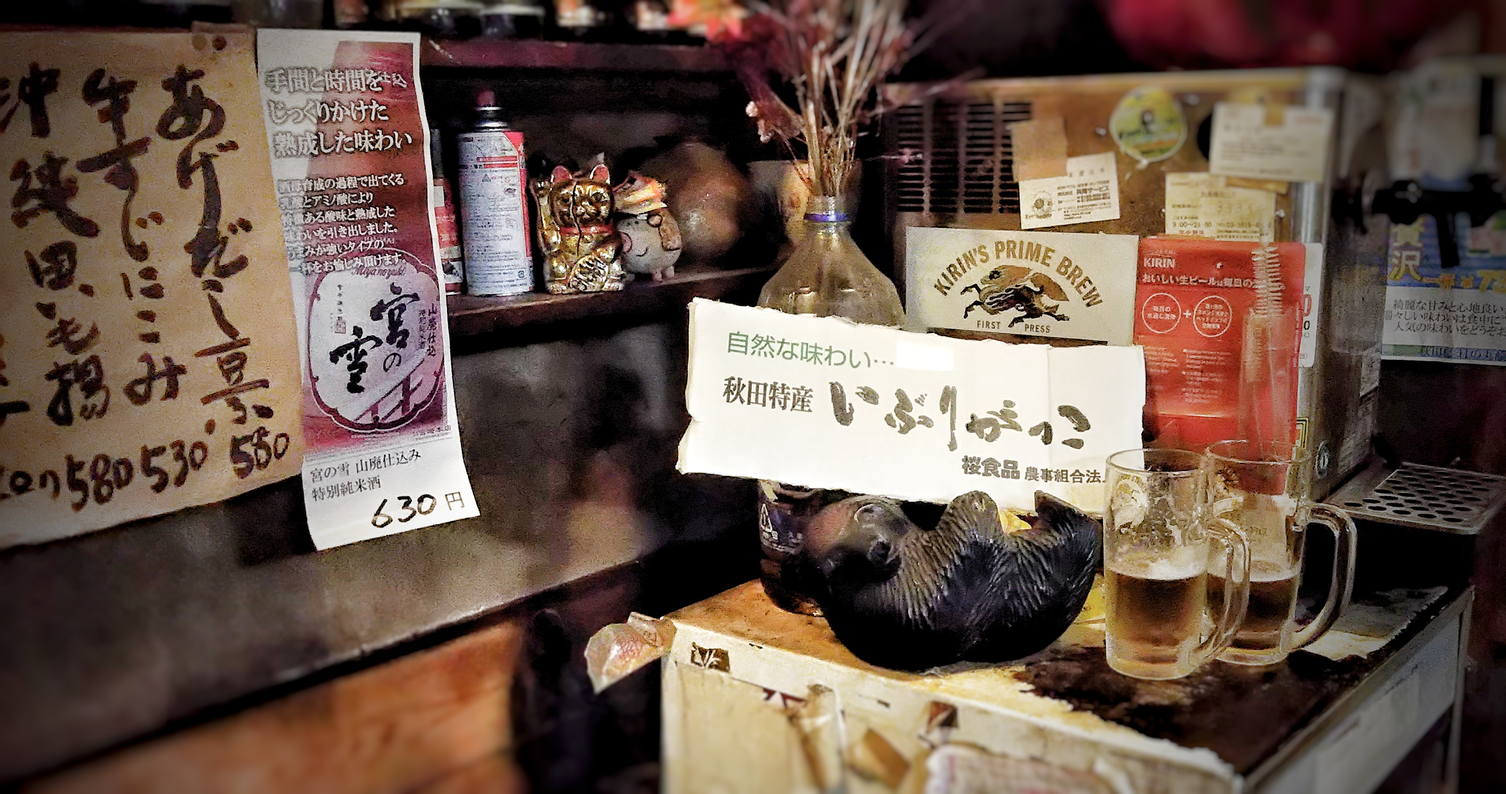
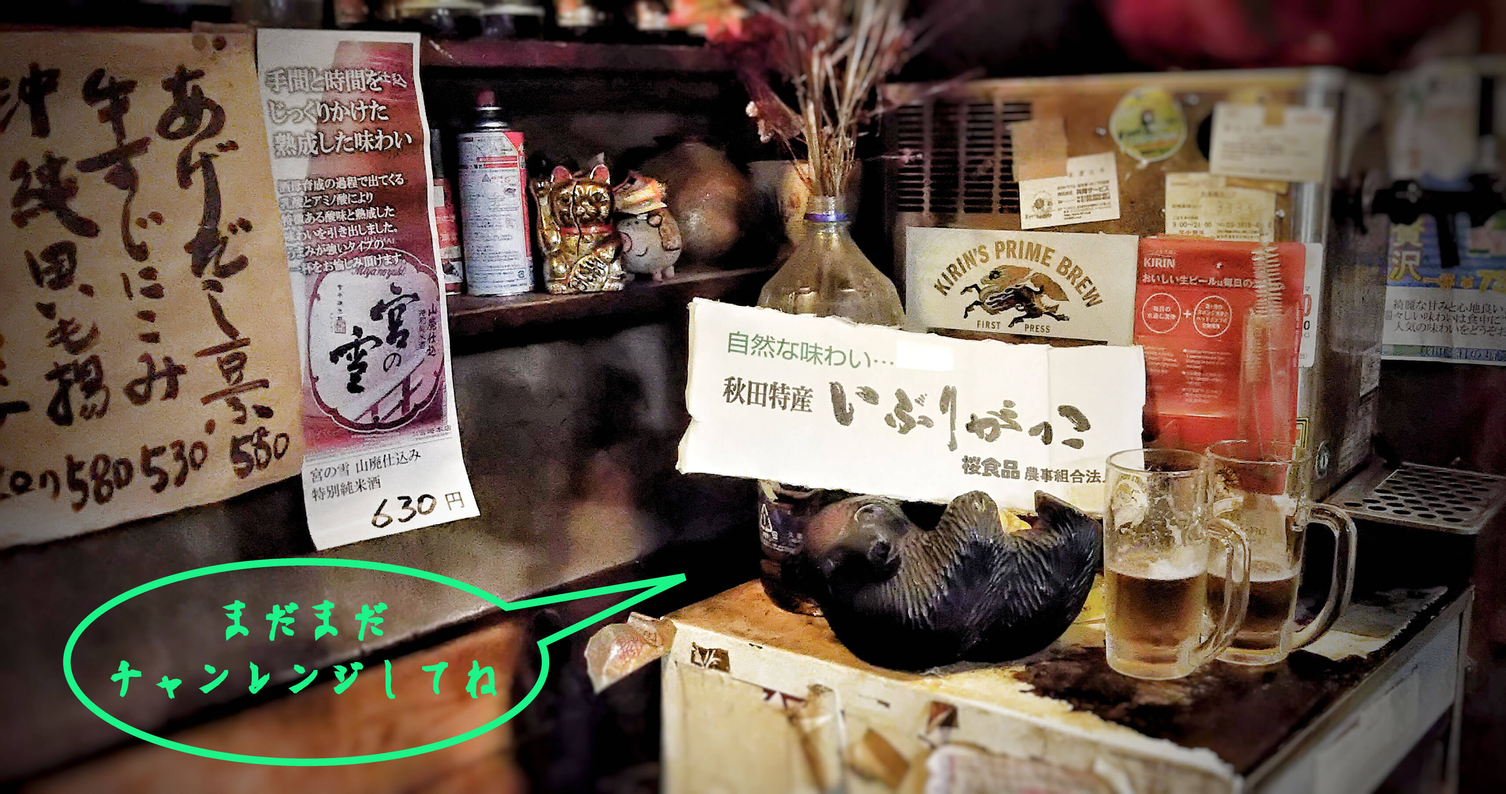
159th top chng add c

diff --git a/index.html b/index.html
@@ -151,6 +151,32 @@
           <hr>
           <p><h4>味とめだより</h4></p><!-- 20160905add -->
 
+          <hr><!-- 20170313add -->
+          <p align="left"><small><time datetime="2017-03-13">2017.03.13</time> update</small></p>
+          <p><h4>クロスワードパズルの正解者出ました！</h4></p>
+          <p><h5>いぶりがっこ1袋とお菓子進呈！</h5></p>
+          <p><h5>まだまだチャレンジください！</h5></p>
+            <p>ひなまつり〜春の感謝祭〜期間中配布したクロスワードパズルの正解者が先週金曜日に出ました。パズルを解いて見事キーワードの正解を解答いただきました！おめでとうございます！正解者の方には、いぶりかっご1袋とお菓子を進呈いたしました。パズルヒントの公開しはじめの金曜日段階での正解はスゴいです。また解答くださったことにこの場をお借りしてお礼申し上げます。<br>当サイト上での答えあわせは予定とおり3月後半です。手元に解答用紙をまだお持ちの方は、是非とも出題ページにアクセスのうえチャレンジください。</p>
+          <p><center>
+          <img class="img-responsive" src="assets/img/iburikanbanDSC_0022-01.jpeg" height="79" alt="iburikuuma" />  
+          </center>
+            <p>手元に用紙をまだお持ちの方！是非とも出題ページにアクセスのうえチャレンジ！</p>
+          </p>
+           <div class="kakomi">
+            <p></p>
+            <h4>味とめクロスワードパズル[ひなまつり篇]出題ページ</h4><p><a href="crosswordshina.html" target="_blank">http://ajitome.xyz/crosswordshina.html</a></p>
+              <small>※出題ページは答え合わせまでの期間に不定期プチ更新中。ヒントにしてください</small>
+ 　         <br>
+　         </div>
+          
+          <br><br>
+          
+          <p>味とめニッポン紀行ご当地グルメ第２章追加！是非ご覧ください</p>
+          <p><h3><a href="gotochi.html">味とめニッポン紀行ご当地グルメ</a></h3></p>
+           <p><center><br><br></center>
+            <div class="pagetop" style="float: right"><a href="#" class="page-top-btn">▲トップ</a></div>
+          </p>
+
           <hr><!-- 20170305add -->
           <p align="left"><small><time datetime="2017-03-06">2017.03.06</time> update</small></p>
           <p><h4>ご来店御礼！ひなまつり<span style="color:#800000;"><strong>〜春の感謝祭〜</strong></span></h4></p>
@@ -1088,7 +1114,8 @@
 <!-- temptation campaign 20170308 -->
 <a href="./crosswordshina.html" target=" _blank">
 <div class="eventcampaign">
-  <p>クロスワードパズル出題中！<br>解答用紙を手元に出題ページへアクセス！<!-- <br>タテとヨコのカギでパズルを解いてみてください！！--></p>
+  <!--<p>クロスワードパズル出題中！<br>解答用紙を手元に出題ページへアクセス！/p>  -->
+  <p>正解者出ました！まだまだパズル出題中！<br>解答用紙を手元にクロスワード出題ページへアクセス！<!-- <br>タテとヨコのカギでパズルを解いてみてください！！--></p>
   <!--<p><span style="color:#800000;">味とめクロスワードパズル出題中！</span><br>解答用紙はGETされた方は<a href="./crosswordshina.html" target=" _blank">出題ページ</a>へアクセス！ <br>タテとヨコのカギでパズルを解いてみてください！！</p>-->
             <!--<p>味とめクロスワードパズル[ひなまつり篇]出題ページ</p>-->
             <!--<p><a href="../crosswordshina.html" target=" _blank">http://ajitome.xyz/crosswordshina.html</a>-->
